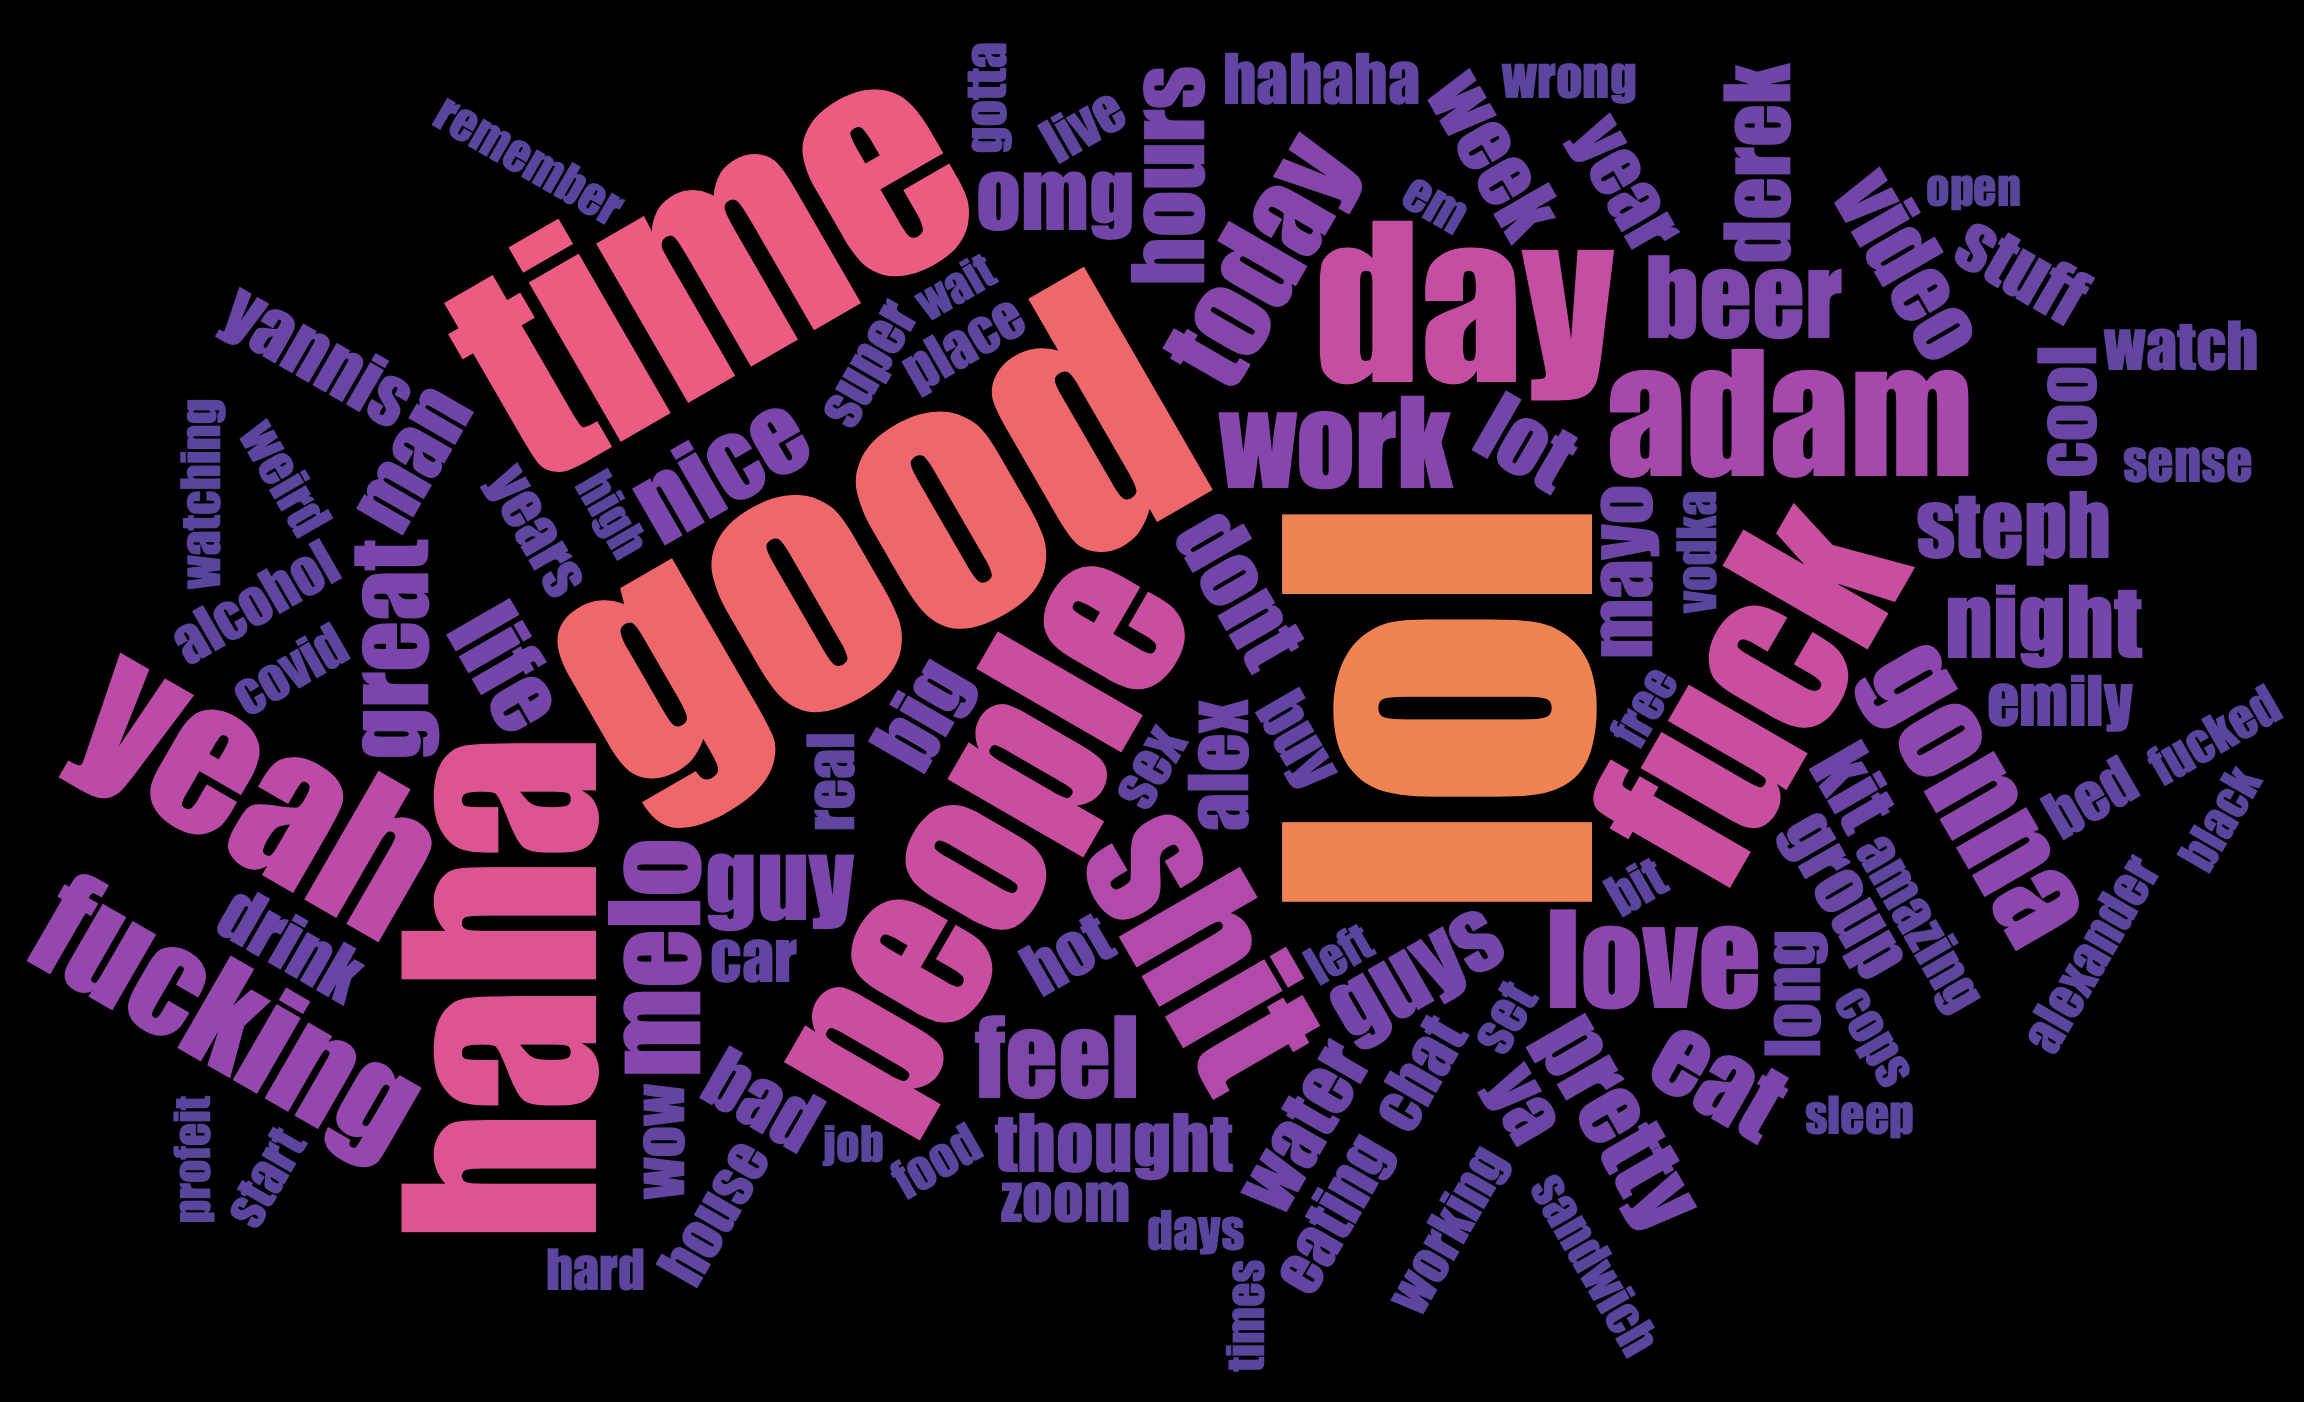
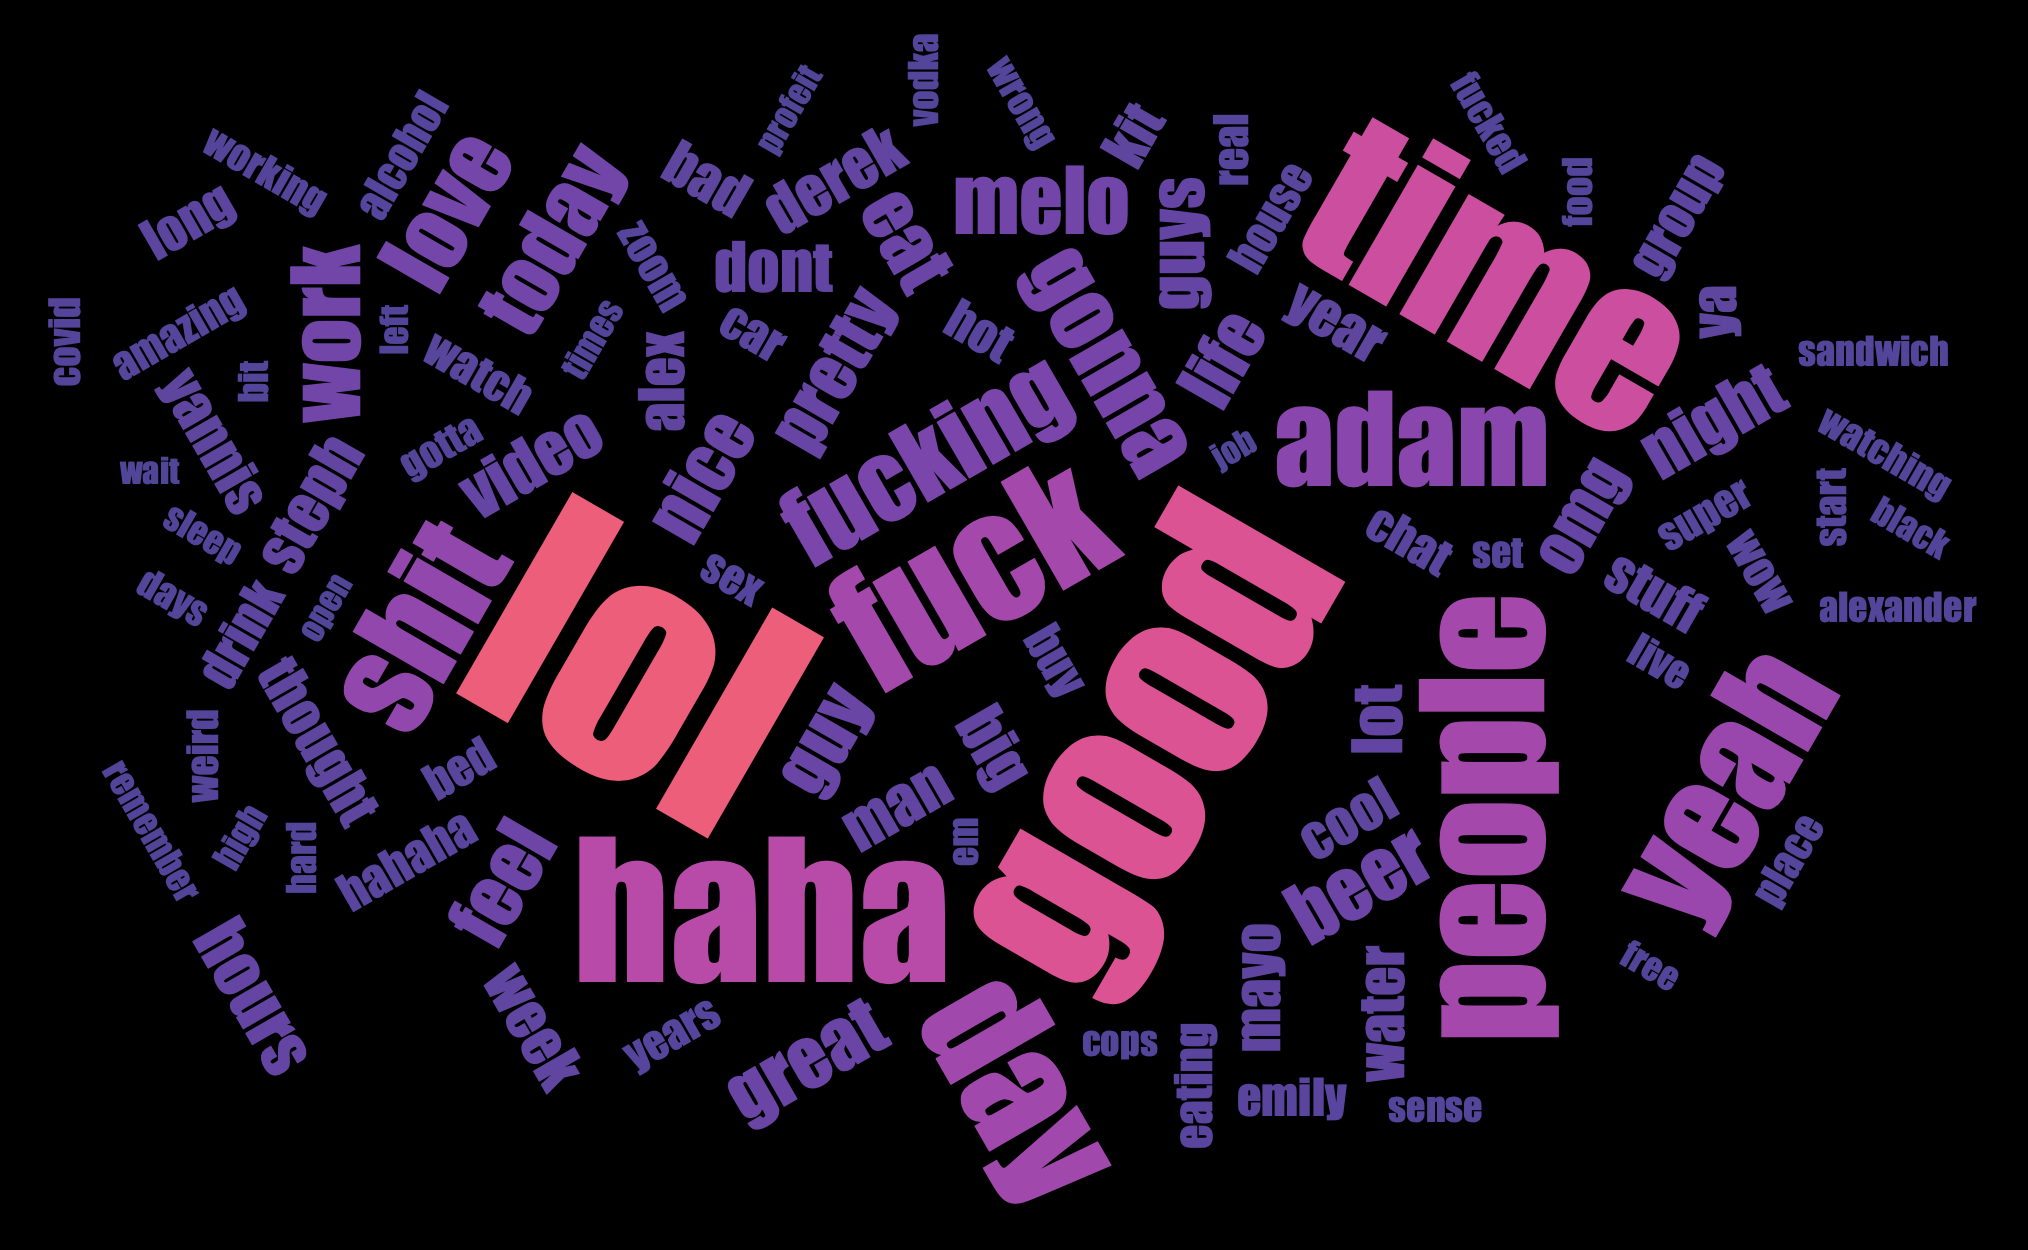
update fonts

diff --git a/app.js b/app.js
@@ -19,8 +19,9 @@ var min = d3.min(words.map(function(word) {
 var layout = cloud()
   .size([window.innerWidth, window.innerHeight])
   .words(words)
-  .font("Impact")
-  .fontSize(function(d) { return (d.size / 1.5); })
+  .font("Impact, AvenirNext-Bold, sans-serif")
+  .padding(3)
+  .fontSize(function(d) { return (d.size / 2); })
   .on("end", draw);
 
 layout.start();
@@ -35,7 +36,7 @@ function draw(words) {
     .data(words)
     .enter().append("text")
     .style("font-size", function(d) { return d.size + "px"; })
-    .style("font-family", "Impact")
+    .style("font-family", "Impact, AvenirNext-Bold, sans-serif")
     .style("fill", function(d) { return d3.interpolateWarm((d.size - min) / (max - min))})
     .attr("text-anchor", "middle")
     .attr("transform", function(d) {

diff --git a/bundle.js b/bundle.js
@@ -20,8 +20,9 @@ var min = d3.min(words.map(function(word) {
 var layout = cloud()
   .size([window.innerWidth, window.innerHeight])
   .words(words)
-  .font("Impact")
-  .fontSize(function(d) { return (d.size / 1.5); })
+  .font("Impact, AvenirNext-Bold, sans-serif")
+  .padding(3)
+  .fontSize(function(d) { return (d.size / 2); })
   .on("end", draw);
 
 layout.start();
@@ -36,7 +37,7 @@ function draw(words) {
     .data(words)
     .enter().append("text")
     .style("font-size", function(d) { return d.size + "px"; })
-    .style("font-family", "Impact")
+    .style("font-family", "Impact, AvenirNext-Bold, sans-serif")
     .style("fill", function(d) { return d3.interpolateWarm((d.size - min) / (max - min))})
     .attr("text-anchor", "middle")
     .attr("transform", function(d) {
